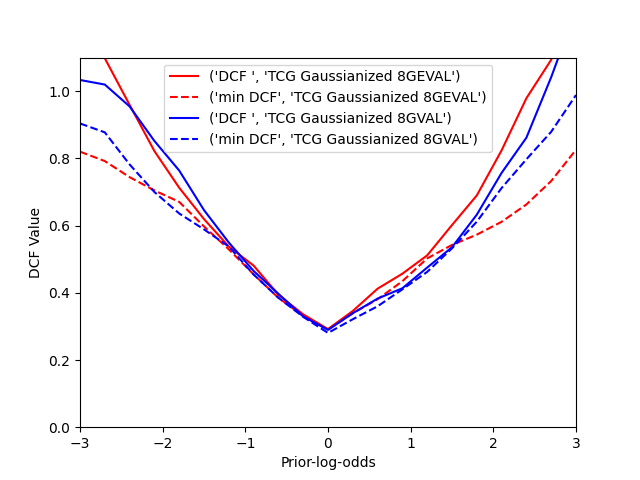
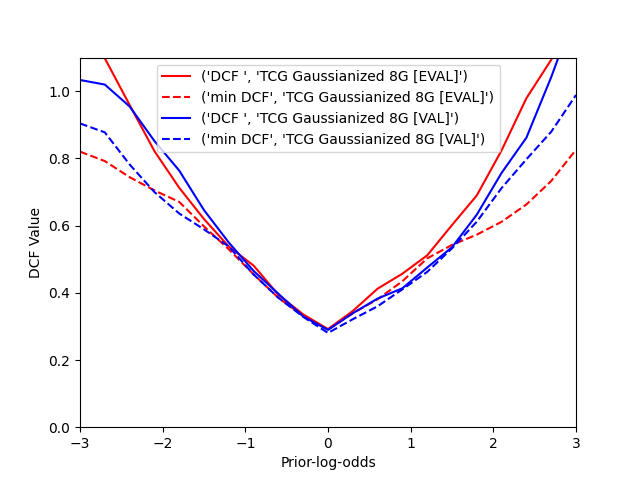
Minor fix

Changed region(s): [[0.3125, 0.125, 0.7812, 0.3125], [0.25, 0.2812, 0.2812, 0.3125], [0.25, 0.1875, 0.2812, 0.2188]]

diff --git a/src/mainGMM.py b/src/mainGMM.py
@@ -79,6 +79,51 @@ def compute_GMM_LLR_rec(D, L, G, alpha, pt, gauss=False, model='MVG', PCAm=None)
     return ST, S, L
 
 
+
+def compute_GMM_LLR_EVAL(DTR, LTR, DTE, LTE, G, alpha, gauss=False, model='MVG', PCAm=None):
+    # PRE-PROCESSING
+    if gauss == True:
+        DTR = gauss_data(DTR)
+        DTE = gauss_data(DTE)
+
+    if PCAm != None:
+        DTR = PCA(DTR, PCAm)
+        DTE = PCA(DTE, PCAm)
+
+    # TRAINING
+    GM = GMMClass(DTR, LTR, G, threshold, alpha, psi, model)
+    GM.computeGMMs()
+
+    # EVALUATION
+    S = GM.computeLLR(DTE)
+
+    return S, LTE
+
+
+def compute_GMM_LLR_EVAL_rec(DTR, LTR, DTE, LTE, G, alpha, pt, gauss=False, model='MVG', PCAm=None):
+    # PRE-PROCESSING
+    if gauss == True:
+        DTR = gauss_data(DTR)
+        DTE = gauss_data(DTE)
+
+    if PCAm != None:
+        DTR = PCA(DTR, PCAm)
+        DTE = PCA(DTE, PCAm)
+
+    # TRAINING
+    GM = GMMClass(DTR, LTR, G, threshold, alpha, psi, model)
+    GM.computeGMMs()
+
+    # Uncalibrated scores
+    S = GM.computeLLR(DTE)
+
+    # Calibrated scores
+    S_train = GM.computeLLR(DTR)
+    ST = recalScores(S_train, LTR, S, pt)
+
+    return ST, S, LTE
+
+
 def compute_GMM_DCFMin(D, L, p, G, alpha, gauss=False, model='MVG', PCAm=None):
     S, L = compute_GMM_LLR(D, L, G, alpha, gauss, model, PCAm)
 
@@ -96,27 +141,6 @@ def compute_GMM_DCFMin(D, L, p, G, alpha, gauss=False, model='MVG', PCAm=None):
     print(f'ActDCF: {DCFAct:.4f} -> {model} ({strgauss}) (p={p}) (alpha={alpha}) G={G}')
 
     return DCFMin
-
-def computeGMM_DCF_EVAL(DTR, LTR, DTE, LTE, G, alpha, gauss=False, model='MVG', PCAm=None, title=''):
-    # PRE-PROCESSING
-    if gauss == True:
-        DTR = gauss_data(DTR)
-        DTE = gauss_data(DTE)
-
-    if PCAm != None:
-        DTR = PCA(DTR, PCAm)
-        DTE = PCA(DTE, PCAm)
-
-    # TRAINING
-    GM = GMMClass(DTR, LTR, G, threshold, alpha, psi, model)
-    GM.computeGMMs()
-
-    # EVALUATION
-    S = GM.computeLLR(DTE)
-    
-    minDCF, PI, MP, actDCF = showBayesPlot(S, LTE, NUM_CLASSES, title, False, 'red')
-    MP[0].showStatsByThres(PI, LTE, 2)
-    print("minDCF:", minDCF, " | actDCF:", actDCF, "| PI:", PI)
 
 
 def main_tuning_alpha():
@@ -231,13 +255,10 @@ def main_BayesPlot_calibrated():
 
     plt.figure()
 
-    # UNCALIBRATED
-    LLR, LTE = compute_GMM_LLR(D, L, G, alpha, gauss, model, PCAm)
-    showBayesPlot(LLR, LTE, NUM_CLASSES, str(title + ' UNCALIBRATED'), False, 'red')
+    LLR_Cal, LLR, LTE = compute_GMM_LLR_rec(D, L, G, alpha, 0.5, gauss, model, PCAm)
 
-    # CALIBRATED
-    LLR, _, LTE = compute_GMM_LLR_rec(D, L, G, alpha, 0.5, gauss, model, PCAm)
-    showBayesPlot(LLR, LTE, NUM_CLASSES, str(title + ' CALIBRATED'), False, 'green')
+    showBayesPlot(LLR, LTE, NUM_CLASSES, str(title + ' UNCALIBRATED'), False, 'red')
+    showBayesPlot(LLR_Cal, LTE, NUM_CLASSES, str(title + ' CALIBRATED'), False, 'green')
 
     plt.savefig('./src/plots/GMM/gmm_bayes_DCF_trainSet_MVG_GAU_512G_calibrated.png')
     plt.show()
@@ -277,8 +298,11 @@ def main_comparison_EVAL_VAL():
     plt.figure()
 
     print(title, 'EVAL')
-    computeGMM_DCF_EVAL(DTR, LTR, DTE, LTE, G, alpha, gauss=gauss, model=model, PCAm=PCAm, title=(str(title+' [EVAL]')))
-    
+    LLR, LTE = compute_GMM_LLR_EVAL(DTR, LTR, DTE, LTE, G, alpha, gauss=gauss, model=model, PCAm=PCAm)
+    minDCF, PI, MP, actDCF = showBayesPlot(LLR, LTE, NUM_CLASSES, str(title+' [EVAL]'), False, 'red')
+    MP[0].showStatsByThres(PI, LTE, 2)
+    print("minDCF:", minDCF, " | actDCF:", actDCF, "| PI:", PI)
+
     print(title, "VAL:")
     LLR, LTE = compute_GMM_LLR(DTR, LTR, G, alpha, gauss=gauss, model=model)
     minDCF, PI, MP, actDCF = showBayesPlot(LLR, LTE, NUM_CLASSES, str(title+' [VAL]'), False, 'blue')
@@ -294,8 +318,8 @@ if __name__ == '__main__':
     # main_best_models()
     # main_BayesPlot()
     # main_BayesPlot_calibrated()
-    main_BayesPlot_calibrated_TCG8G_VS_MVG512G()
-    # main_comparison_EVAL_VAL()
+    # main_BayesPlot_calibrated_TCG8G_VS_MVG512G()
+    main_comparison_EVAL_VAL()
 
 
 '''
